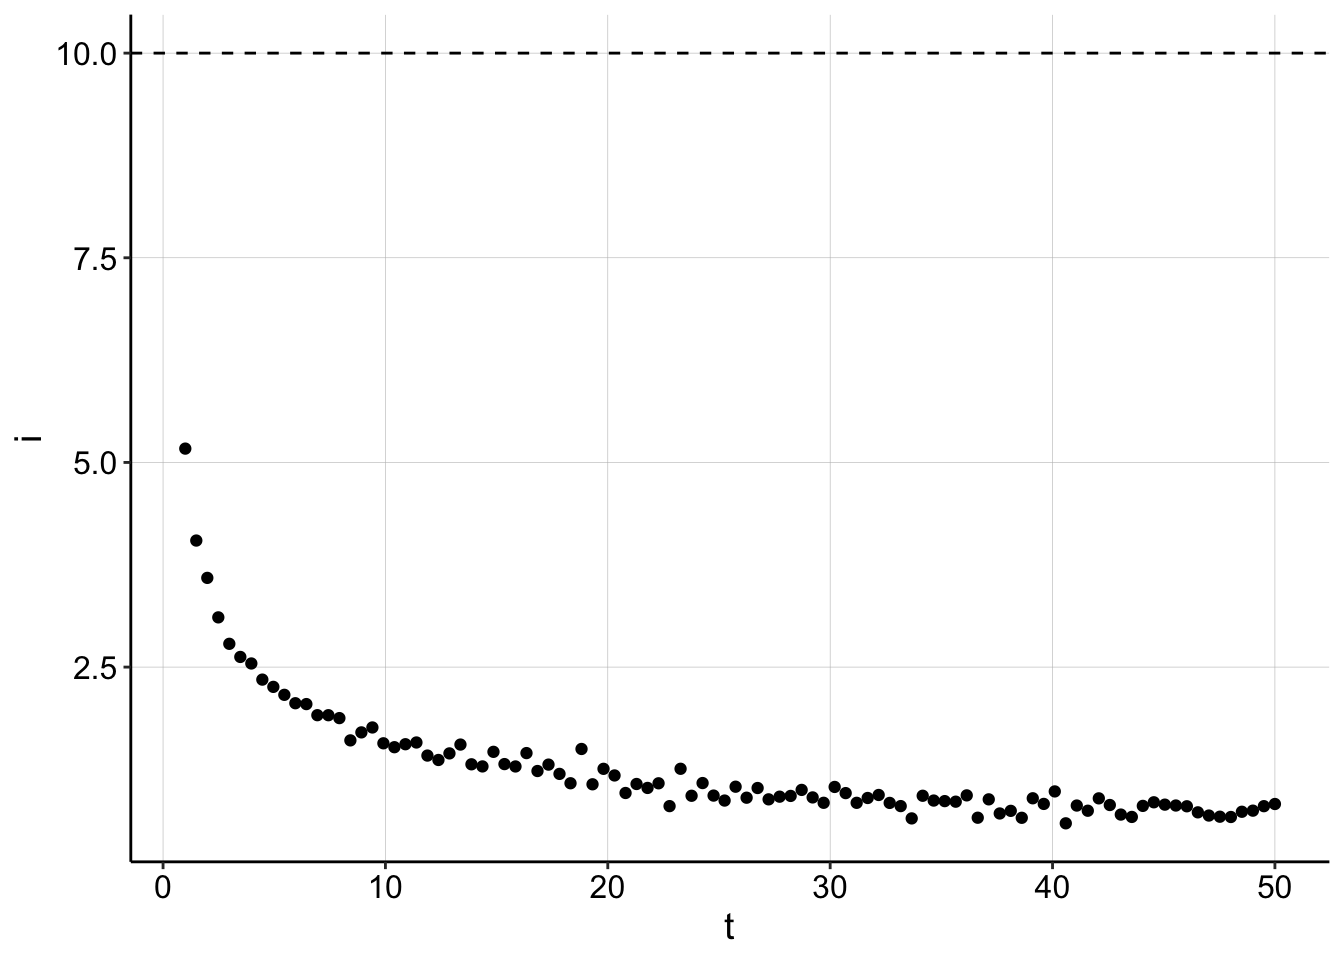
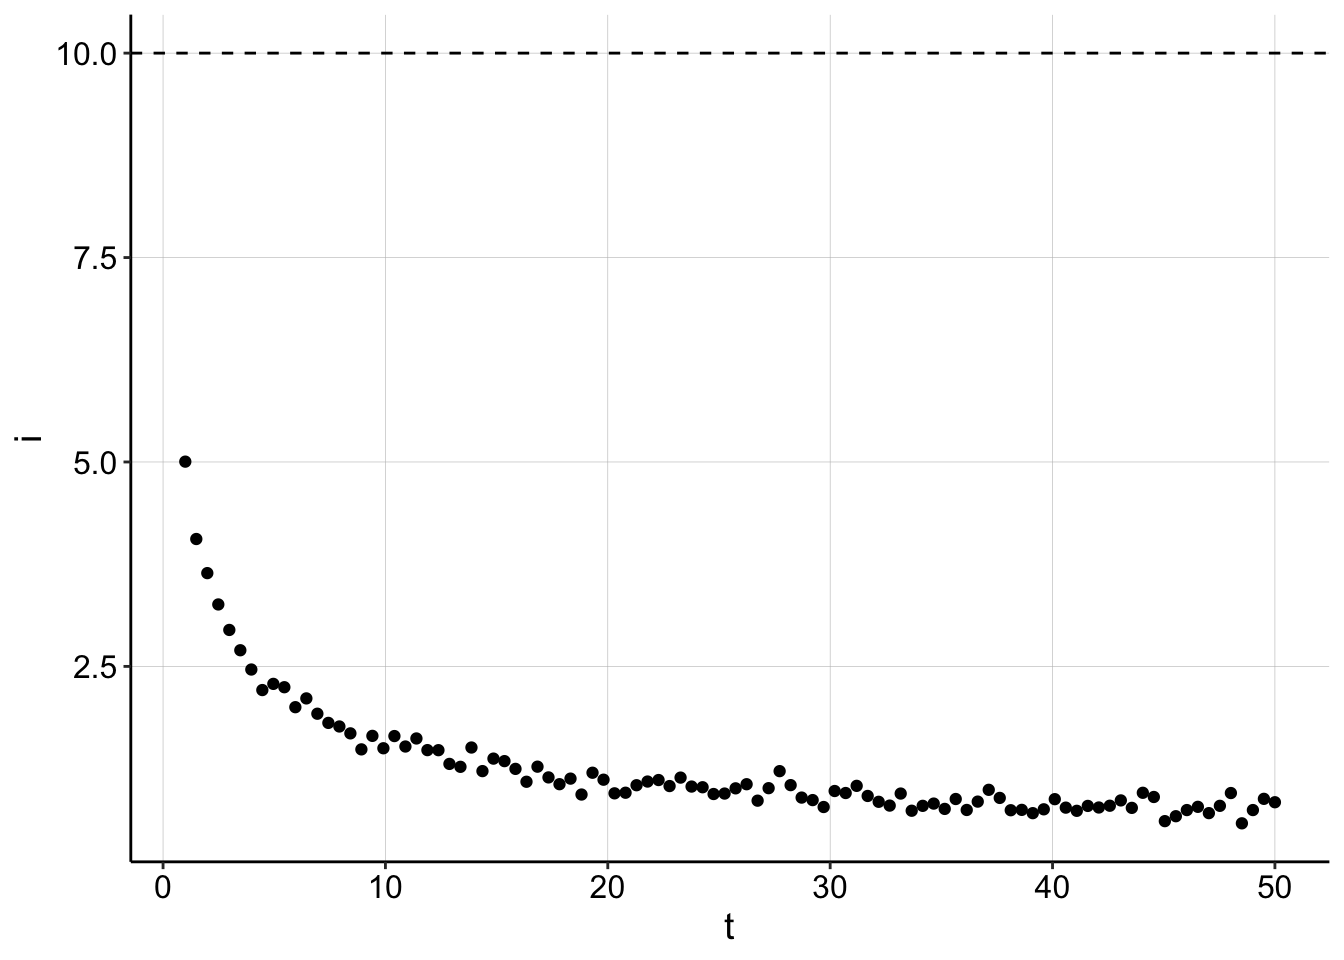
updated diffusion gen decode doc

diff --git a/IDA/12_10_18/Analysis/generating_and_decoding_diffusion.html b/IDA/12_10_18/Analysis/generating_and_decoding_diffusion.html
@@ -230,27 +230,27 @@ kable(head(gen_data))</code></pre>
 <tbody>
 <tr class="odd">
 <td align="right">1.000000</td>
-<td align="right">5.168885</td>
+<td align="right">5.004122</td>
 </tr>
 <tr class="even">
 <td align="right">1.494949</td>
-<td align="right">4.045879</td>
+<td align="right">4.057905</td>
 </tr>
 <tr class="odd">
 <td align="right">1.989899</td>
-<td align="right">3.589754</td>
+<td align="right">3.640768</td>
 </tr>
 <tr class="even">
 <td align="right">2.484849</td>
-<td align="right">3.107393</td>
+<td align="right">3.257615</td>
 </tr>
 <tr class="odd">
 <td align="right">2.979798</td>
-<td align="right">2.784355</td>
+<td align="right">2.945868</td>
 </tr>
 <tr class="even">
 <td align="right">3.474747</td>
-<td align="right">2.623979</td>
+<td align="right">2.697552</td>
 </tr>
 </tbody>
 </table>
@@ -279,11 +279,11 @@ kable(head(gen_data))</code></pre>
 <p>So, this function will take in our generated df. We will also provide it with a <span class="math inline">\(D_{ap}\)</span> and <span class="math inline">\(t_s\)</span>.</p>
 <pre class="r"><code>(estimates &lt;- calc_D_m(gen_data, D_ap = D_ap, t_s = t_s))</code></pre>
 <pre><code>##          D_m          i_0            b 
-## 2.634223e-08 5.168885e+00 3.565016e-03</code></pre>
+## 2.508968e-08 5.004122e+00 5.974719e-03</code></pre>
 <p>Ok, so the function runs…<strong>but its estimate is about an order of magnitude off</strong>…not great for data that we just generated. Recall that <span class="math inline">\(I_0\)</span> was 10, it seems that could be an important problem if using the max point to estimate <span class="math inline">\(I_0\)</span> doesn’t work well. You can see that by reruning the calculation function, but providing the correct <span class="math inline">\(I_0\)</span> enables the fit to estimate <span class="math inline">\(D_m\)</span> very accurately.</p>
 <pre class="r"><code>calc_D_m(gen_data, D_ap = D_ap, t_s = t_s, i_0 = I0)</code></pre>
 <pre><code>##          D_m          i_0            b 
-## 9.859589e-08 1.000000e+01 3.565016e-03</code></pre>
+## 1.001935e-07 1.000000e+01 5.974719e-03</code></pre>
 <p>Now, providing the correct <span class="math inline">\(I_0\)</span> yields a very good estimate for <span class="math inline">\(D_m\)</span>, recall that we originally set it to 10^{-7} cm^2/sec.</p>
 <p>Let’s look at a plot of the original data with data regenerated from the estimated fit parameters:</p>
 <pre class="r"><code># generate dataset from estimates
@@ -311,17 +311,18 @@ D_m_v2 = 1e-09
 gen_data_100 &lt;- tibble(t = seq(10, 3600, by = 10), i = generate_Iswv(t = t, 
     I0 = I0_v2, D_ap, D_m = D_m_v2, t_s, noise = T, sd = 2e-08))
 
-ggplot(gen_data_100, aes(x = t/60, y = i)) + geom_point()</code></pre>
+ggplot(gen_data_100, aes(x = t/60, y = i)) + geom_point() + geom_hline(yintercept = I0_v2, 
+    linetype = 2)</code></pre>
 <p><img src="generating_and_decoding_diffusion_files/figure-html/unnamed-chunk-8-1.png" width="672" style="display: block; margin: auto;" /></p>
 <p>Interestingly, when <span class="math inline">\(D_m\)</span> and <span class="math inline">\(t\)</span> are small enough, you can actually get signal larger than <span class="math inline">\(I_0\)</span>. Using the same metric of the max data point to estimate <span class="math inline">\(I_0\)</span> now yields an <strong>overestimate.</strong></p>
 <p>NLS estimates:</p>
 <pre class="r"><code>(estimates_100 &lt;- calc_D_m(gen_data_100, D_ap = D_ap, t_s = t_s))</code></pre>
 <pre><code>##           D_m           i_0             b 
-##  2.494532e-09  1.617001e-06 -4.597882e-09</code></pre>
+##  2.503184e-09  1.577650e-06 -1.132666e-09</code></pre>
 <p>Estimates when provided with correct <span class="math inline">\(I_0\)</span></p>
 <pre class="r"><code>calc_D_m(gen_data_100, D_ap = D_ap, t_s = t_s, i_0 = I0_v2)</code></pre>
 <pre><code>##           D_m           i_0             b 
-##  9.540443e-10  1.000000e-06 -4.597882e-09</code></pre>
+##  1.005707e-09  1.000000e-06 -1.132666e-09</code></pre>
 <p>Again, we see that the error in the <span class="math inline">\(I_0\)</span> estimate throws off the <span class="math inline">\(D_m\)</span> estimate by 2.5x. And the plot shows the same effect as before - incorrect <span class="math inline">\(I_0\)</span> estimates will force the fit to adjust the <span class="math inline">\(D_m\)</span>.</p>
 <pre class="r"><code>calc_data_100 &lt;- tibble(t = seq(10, 3600, by = 10), i = generate_Iswv(t = t, 
     I0 = estimates_100[2], D_ap, D_m = estimates_100[1], t_s, 
